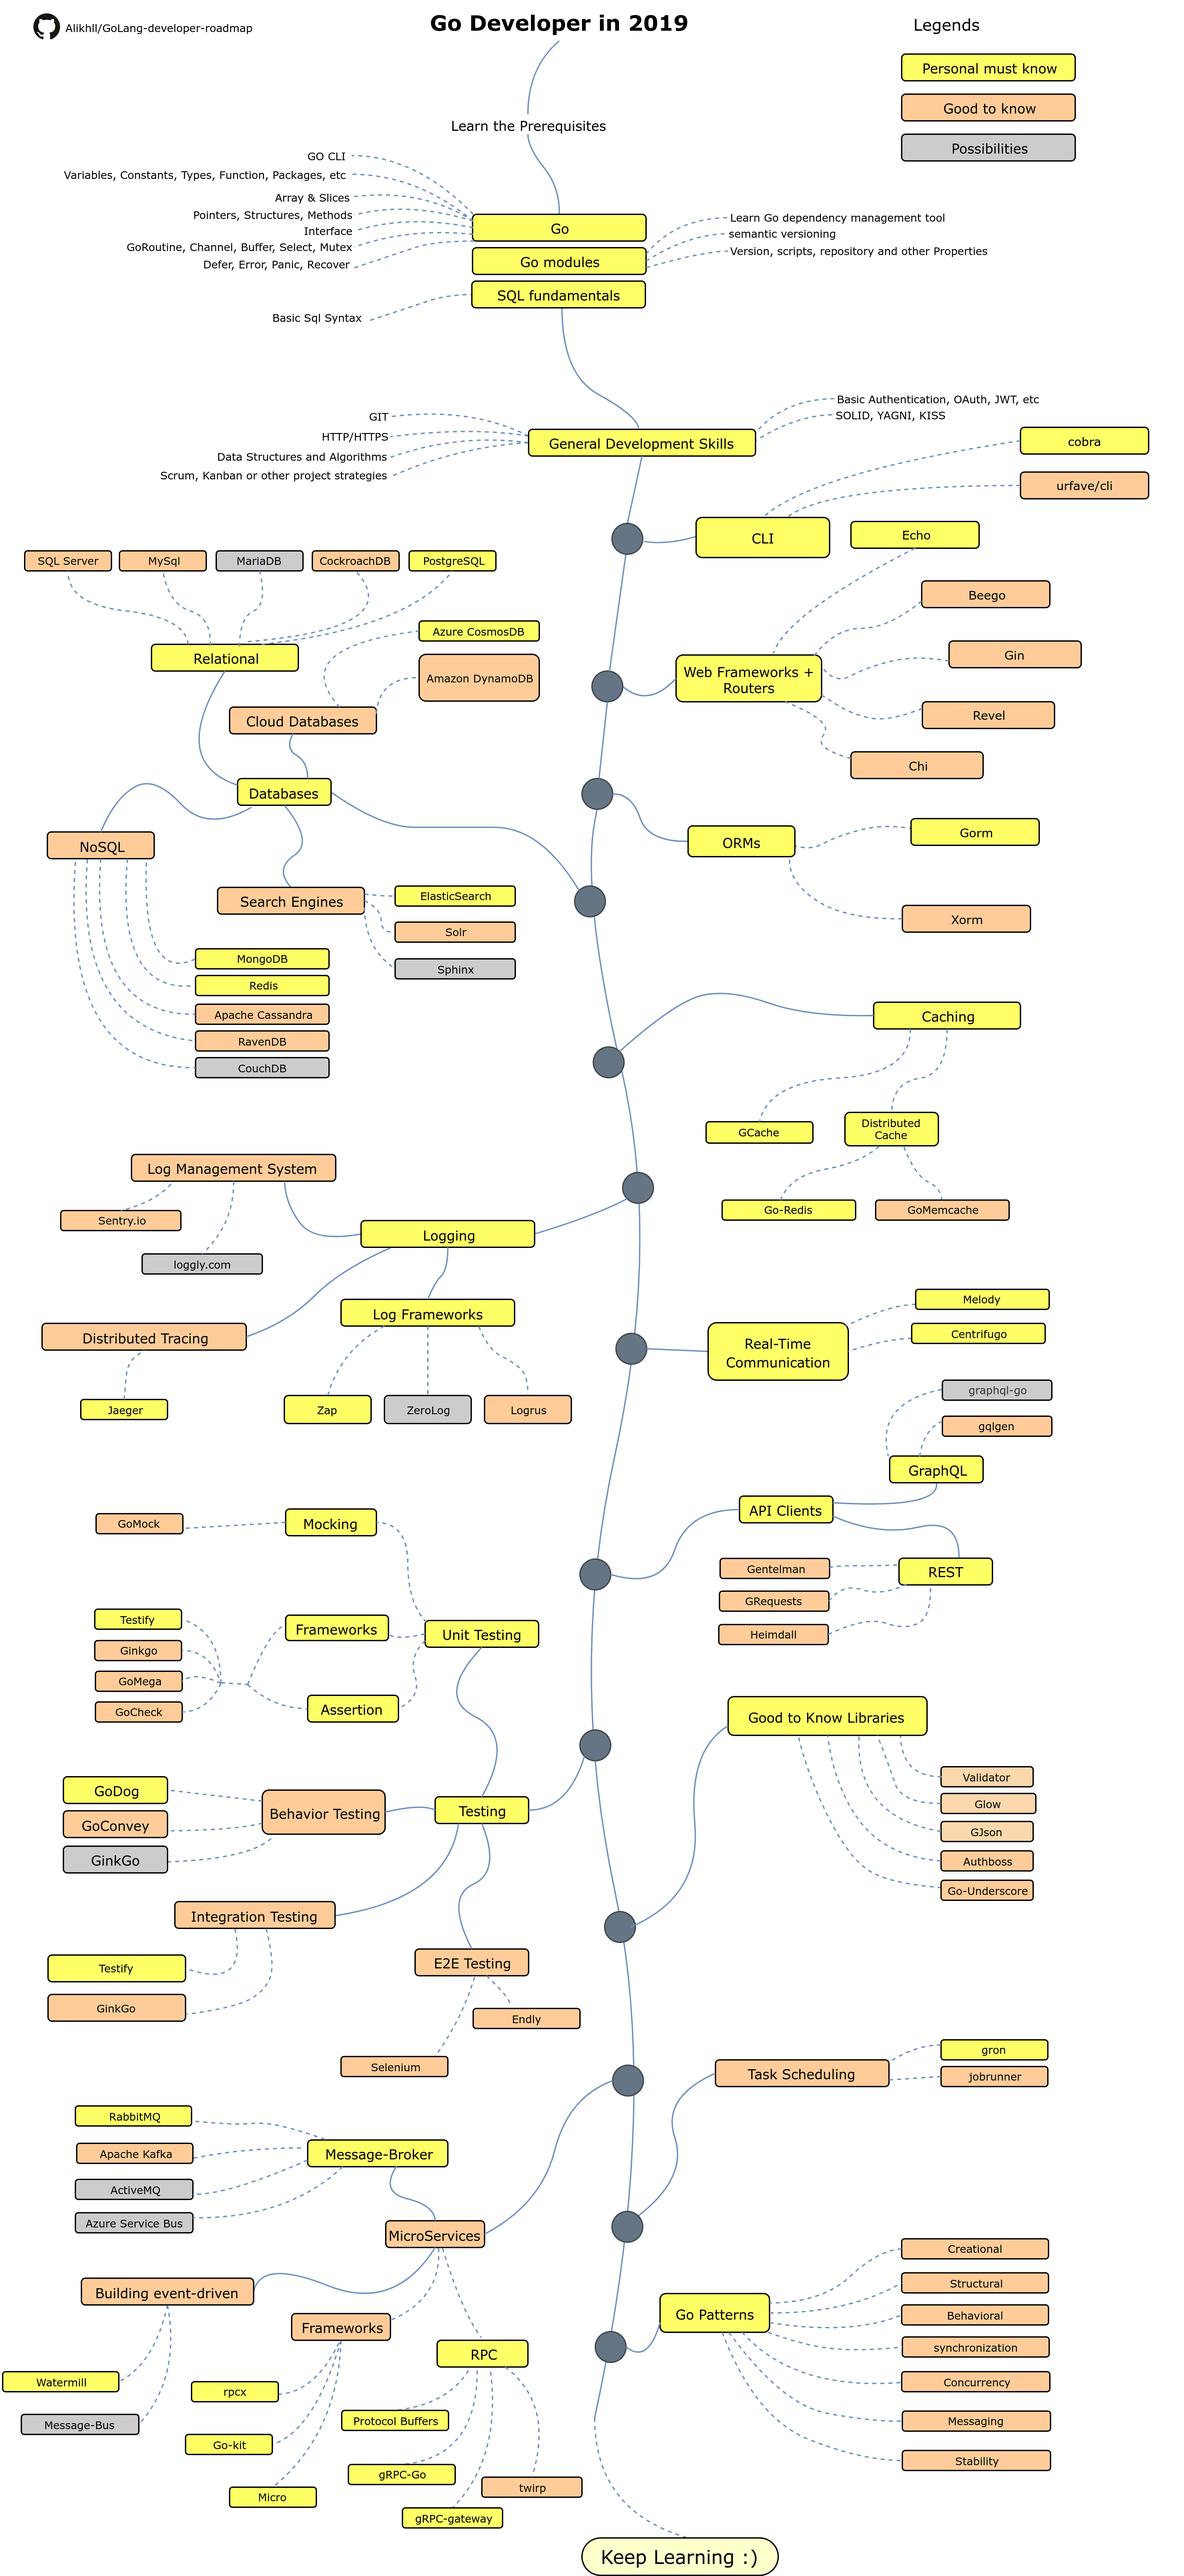
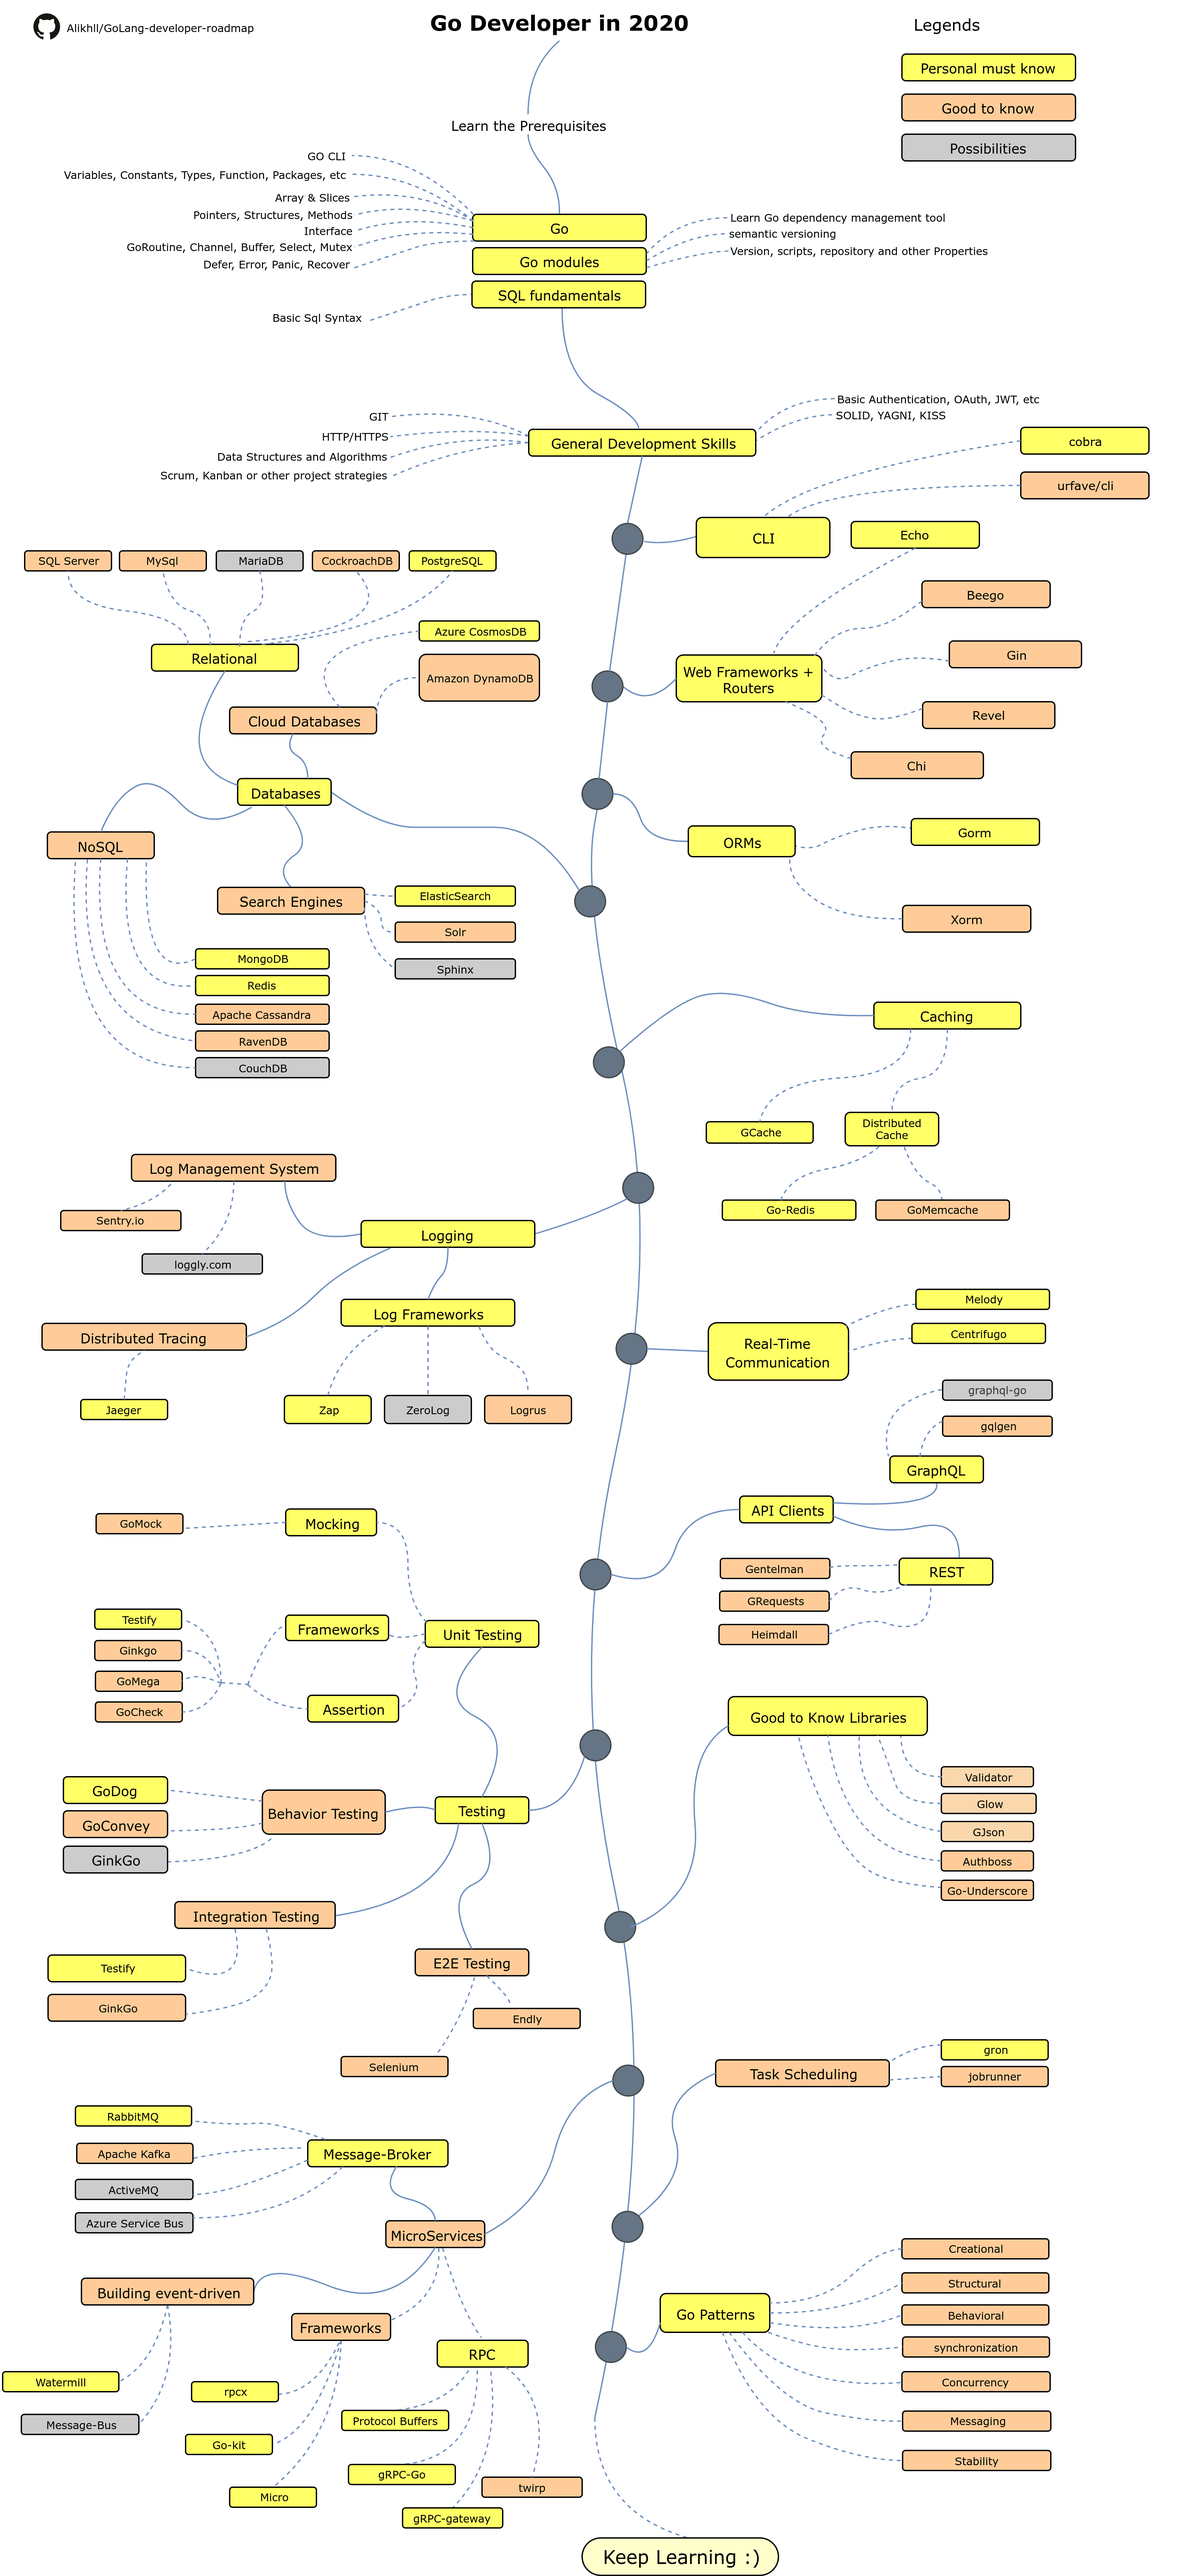
Update year to 2020

diff --git a/ReadMe.md b/ReadMe.md
@@ -1,6 +1,6 @@
 # Go Developer Roadmap
 
-> Roadmap to becoming a [Go](https://golang.org/) developer in 2019:
+> Roadmap to becoming a [Go](https://golang.org/) developer in 2020:
 
 Below you can find a chart demonstrating the paths that you can take and the libraries that you would want to learn to become a Go developer. I made this chart as a tip for everyone who asks me, "*What should I learn next as a Go developer?*"
 
